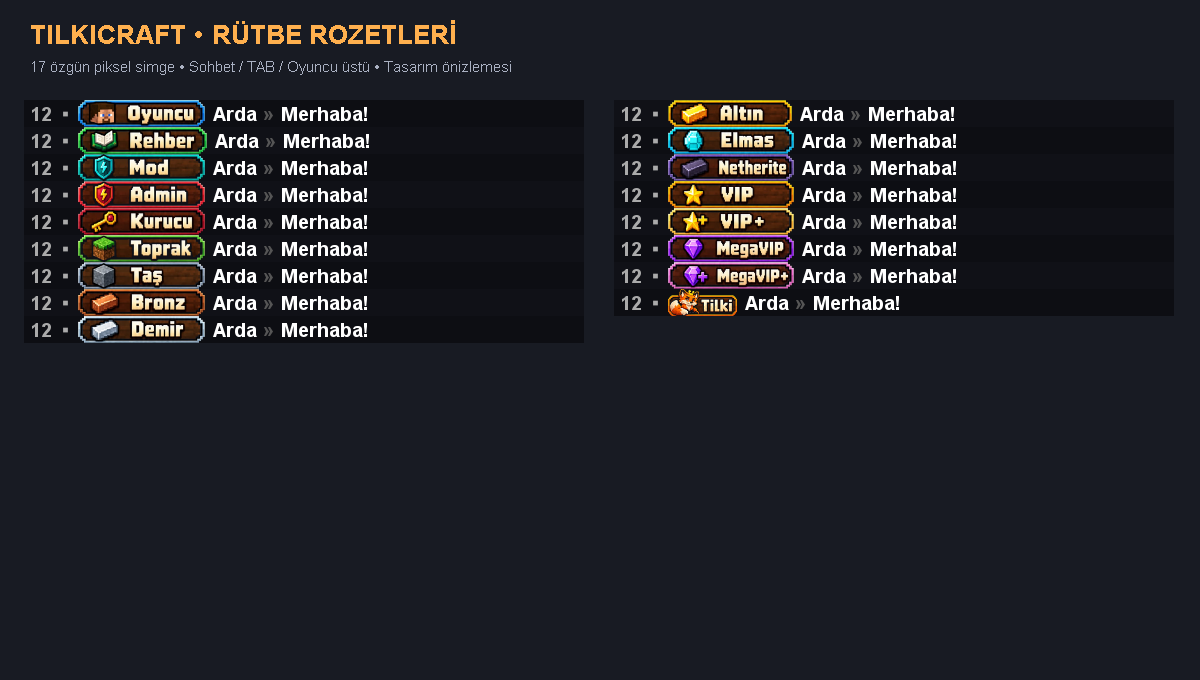
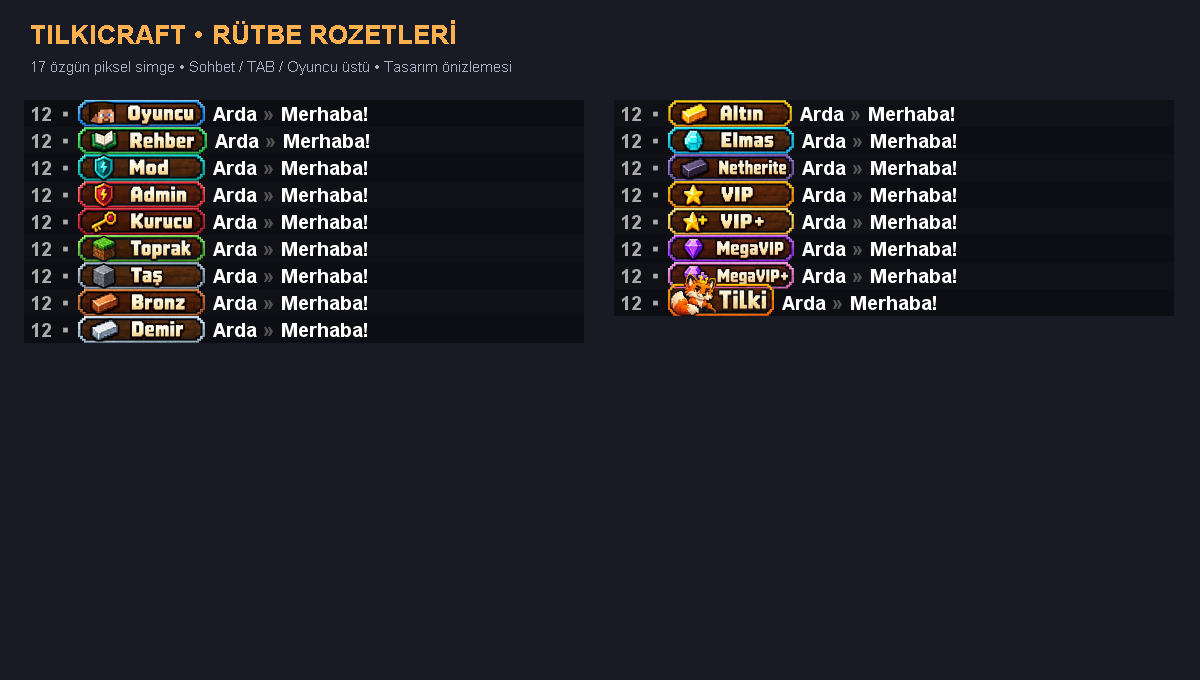
Enlarge the reference Tilki badge to 14 px
The Tilki badge keeps the reference artwork and rises above its chat line
so the crowned fox and lettering stay readable; the other 16 badges keep
the one-line 9 px height.

Changed region(s): [[0.555, 0.4015, 0.8017, 0.4632]]

diff --git a/tools/BuildTagsPack.java b/tools/BuildTagsPack.java
@@ -115,8 +115,10 @@ class BuildTagsPack {
         draw.setColor(index==16?new Color(0xffeeb7):Color.WHITE);draw.drawString(LABELS[index],14f,7.1f);
         draw.dispose();image.setRGB(0,0,0);image.setRGB(width*3-1,0,0x01ffffff);return image;
     }
-    // A chat line is nine pixels; taller glyphs would cover the neighbouring lines.
-    static final int LINE_HEIGHT=9,SHEET_OVERSAMPLE=5;
+    // A chat line is nine pixels; the rank badges fill exactly one line. The Tilki
+    // badge keeps the reference artwork and is taller on purpose: it rises above its
+    // line (bottom stays on the baseline) so the crowned fox stays readable.
+    static final int LINE_HEIGHT=9,TILKI_HEIGHT=14,SHEET_OVERSAMPLE=5;
     /** Cuts the 17 stacked badges, in IDS order, out of the dark reference sheet. */
     static List<BufferedImage> sheetBadges(Path path) throws Exception {
         BufferedImage source=ImageIO.read(path.toFile());if(source==null)throw new IllegalArgumentException("Invalid badge sheet");
@@ -132,17 +134,18 @@ class BuildTagsPack {
             int minX=source.getWidth(),maxX=0;
             for(int y=row[0];y<row[1];y++)for(int x=0;x<source.getWidth();x++)if(bright(source.getRGB(x,y))){minX=Math.min(minX,x);maxX=Math.max(maxX,x);}
             int top=Math.max(0,row[0]-3),bottom=Math.min(source.getHeight(),row[1]+3);minX=Math.max(0,minX-3);maxX=Math.min(source.getWidth()-1,maxX+3);
-            badges.add(lineBadge(transparentBackground(source.getSubimage(minX,top,maxX-minX+1,bottom-top))));
+            BufferedImage cut=transparentBackground(source.getSubimage(minX,top,maxX-minX+1,bottom-top));
+            badges.add(lineBadge(cut,badges.size()==16?TILKI_HEIGHT:LINE_HEIGHT));
         }
         return badges;
     }
     static BufferedImage customTilkiBadge(Path path) throws Exception {
         BufferedImage source=ImageIO.read(path.toFile());if(source==null)throw new IllegalArgumentException("Invalid Tilki badge PNG");
-        return lineBadge(transparentBackground(source));
+        return lineBadge(transparentBackground(source),TILKI_HEIGHT);
     }
-    /** Scales trimmed artwork to one HD chat line and forces the full advance width. */
-    static BufferedImage lineBadge(BufferedImage cut) {
-        int targetHeight=LINE_HEIGHT*SHEET_OVERSAMPLE,targetWidth=Math.min(255,(int)Math.round(cut.getWidth()*(double)targetHeight/cut.getHeight()));
+    /** Scales trimmed artwork to the given logical height in HD and forces the full advance width. */
+    static BufferedImage lineBadge(BufferedImage cut,int height) {
+        int targetHeight=height*SHEET_OVERSAMPLE,targetWidth=Math.min(255,(int)Math.round(cut.getWidth()*(double)targetHeight/cut.getHeight()));
         BufferedImage badge=areaScale(cut,targetWidth,targetHeight);
         badge.setRGB(0,0,0);badge.setRGB(targetWidth-1,0,0x01ffffff);return badge;
     }
@@ -197,7 +200,9 @@ class BuildTagsPack {
             BufferedImage image=fromSheet!=null?fromSheet.get(i):i==16||!Files.isRegularFile(texture)?badge(i):ImageIO.read(texture.toFile());
             icons.add(image);ImageIO.write(image,"png",texture.toFile());
             // Every badge fills exactly one chat line, so neighbouring lines never overlap.
-            providers.add("{\"type\":\"bitmap\",\"file\":\"tilkitags:font/"+IDS[i]+".png\",\"height\":"+LINE_HEIGHT+",\"ascent\":"+(LINE_HEIGHT-1)+",\"chars\":[\"\\u"+String.format("%04x",0xeb00+i)+"\"]}");
+            // Bottom on the line baseline (glyph top = baseline + 7 - ascent); extra height rises above.
+            int height=i==16?TILKI_HEIGHT:LINE_HEIGHT;
+            providers.add("{\"type\":\"bitmap\",\"file\":\"tilkitags:font/"+IDS[i]+".png\",\"height\":"+height+",\"ascent\":"+(height-1)+",\"chars\":[\"\\u"+String.format("%04x",0xeb00+i)+"\"]}");
         }
         write(root,"pack.mcmeta","{\"pack\":{\"pack_format\":46,\"description\":\"TilkiCraft - 17 original rank badges | 1.21.4\"}}\n");
         write(root,"assets/tilkitags/font/badges.json","{\"providers\":["+String.join(",",providers)+"]}\n");
@@ -217,10 +222,10 @@ class BuildTagsPack {
         g.setRenderingHint(RenderingHints.KEY_INTERPOLATION,RenderingHints.VALUE_INTERPOLATION_BICUBIC);
         g.setRenderingHint(RenderingHints.KEY_TEXT_ANTIALIASING,RenderingHints.VALUE_TEXT_ANTIALIAS_ON);
         for(int i=0;i<17;i++) {
-            int x=30+i/9*590,y=100+i%9*LINE_HEIGHT*3,scaledWidth=icons.get(i).getWidth()*LINE_HEIGHT*3/icons.get(i).getHeight();
+            int x=30+i/9*590,y=100+i%9*LINE_HEIGHT*3,badgeHeight=(i==16?TILKI_HEIGHT:LINE_HEIGHT)*3,scaledWidth=icons.get(i).getWidth()*badgeHeight/icons.get(i).getHeight();
             g.setColor(new Color(0,0,0,i%2==0?120:90));g.fillRect(x-6,y,560,LINE_HEIGHT*3);
             g.setFont(new Font("SansSerif",Font.BOLD,19));color(0xaaaaaa);g.drawString("12 ▪",x,y+21);
-            g.drawImage(icons.get(i),x+48,y,scaledWidth,LINE_HEIGHT*3,null);
+            g.drawImage(icons.get(i),x+48,y+LINE_HEIGHT*3-badgeHeight,scaledWidth,badgeHeight,null);
             color(0xffffff);g.drawString("Arda",x+56+scaledWidth,y+21);color(0x555555);g.drawString("»",x+106+scaledWidth,y+21);color(0xffffff);g.drawString("Merhaba!",x+124+scaledWidth,y+21);
         }
         g.dispose();Files.createDirectories(Path.of("art"));ImageIO.write(preview,"png",Path.of("art/tags-preview.png").toFile());

diff --git a/src/main/java/com/tilkicraft/tags/TilkiTags.java b/src/main/java/com/tilkicraft/tags/TilkiTags.java
@@ -44,9 +44,9 @@ public final class TilkiTags extends JavaPlugin implements Listener, CommandExec
     }
     private void readSettings() {
         String previousUrl=getConfig().getString("pack.url","");
-        if (previousUrl.startsWith("https://github.com/ardaacala/TilkiTags/releases/download/") && !previousUrl.contains("/v1.3.4/")) {
-            getConfig().set("pack.url","https://github.com/ardaacala/TilkiTags/releases/download/v1.3.4/TilkiTags-ResourcePack.zip");
-            getConfig().set("pack.sha1","5d7e15795c1a75dc6e8736536901e4f297bb880c");
+        if (previousUrl.startsWith("https://github.com/ardaacala/TilkiTags/releases/download/") && !previousUrl.contains("/v1.3.5/")) {
+            getConfig().set("pack.url","https://github.com/ardaacala/TilkiTags/releases/download/v1.3.5/TilkiTags-ResourcePack.zip");
+            getConfig().set("pack.sha1","a73ba664eeaf9a64e8cb979431e39a82f9e14efb");
             saveConfig();
         }
         if (getConfig().isConfigurationSection("ranks.tilki") && !"&6&lTilki".equals(getConfig().getString("ranks.tilki.label"))) {

diff --git a/README.md b/README.md
@@ -6,7 +6,7 @@ TilkiCraft için 17 özgün piksel rozet: sohbet, TAB oyuncu listesi ve oyuncunu
 
 ## Kurulum
 
-1. Sunucuyu durdur, `TilkiTags-1.3.4.jar` dosyasını `plugins` klasörüne koy ve yeniden başlat. LuckPerms kurulu olmalı.
+1. Sunucuyu durdur, `TilkiTags-1.3.5.jar` dosyasını `plugins` klasörüne koy ve yeniden başlat. LuckPerms kurulu olmalı.
 2. Yönetici olarak `/tilkitags setup` çalıştır. 17 kozmetik grup hazırlanır. Mevcut grup üyelikleri veya yetkileri silinmez; gruplara yönetici/Essentials/oyun yetkileri eklenmez. Bunları LuckPerms'te ayrıca yönetirsin.
 3. Grup ata: `/lp user Arda parent add vipplus` veya `/lp user Arda parent add tilki`. `parent add` mevcut başka grupları korur. Kaldırmak için `parent remove <grup>` kullan.
 4. Oyuncu rozet paketini kabul eder; ZIP hazır GitHub bağlantısından indirilir. Sunucuya ZIP koymak gerekmez. Paket varsayılan olarak zorunludur.
@@ -83,6 +83,10 @@ TilkiStatsHUD 1.0.1 ile aynı rozet sidebar rütbe satırında ve üst şeritte 
 Güncelleme: sunucuyu durdur, eski TilkiTags ve TilkiStatsHUD JAR'larını kaldırıp yenilerini koy, yeniden başlat ve oyuna yeniden gir. Mevcut gruplar, üyelikler ve ayarlar korunur. Eski resmi tag paketi URL/SHA1 bilgileri otomatik güncellenir; özel hosting kullanıyorsan yeni ZIP/hash bilgilerini sen güncellemelisin. Gruplar zaten varsa setup tekrar gerekmez. Baked rozet içindeki yazı değişecekse BuildTagsPack.java ile doku yeniden üretilmelidir; config label alanı metin fallback'ini değiştirir.
 
 Doğrulama: 5 rank/glyph/format testi, HUD tarafında 4 test (rozet API sözleşmesi dahil), PNG/JSON/font/ZIP/SHA1 kontrolleri. Canlı istemci görünümü henüz doğrulanmadı.
+
+## 1.3.5 — Büyük Tilki rozeti
+
+Tilki rozeti referans görseldeki tasarımı birebir korur ve 14 piksel yüksekliğe (diğer rozetler 9) büyütüldü. Alt kenarı satır tabanındadır; taçlı tilki ve tabela üst satıra doğru taşar, böylece detaylar seçilir ve rozet sohbette öne çıkar. Diğer 16 rozet tek satırda kalır.
 
 ## 1.3.4 — Referans rozetleri, taşmasız sohbet
 
